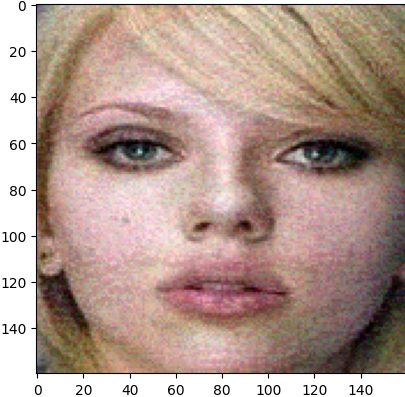
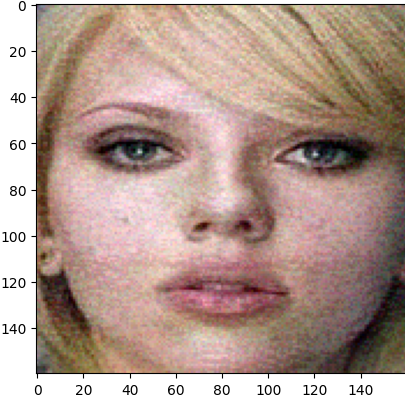
modified universal slightly to meld with other functions

diff --git a/perturbations.py b/perturbations.py
@@ -4,11 +4,10 @@ import numpy as np
 import matplotlib.pyplot as plt
 import os
 from torch.utils.data import TensorDataset
-from torch.utils.data import DataLoader
-from simplecnn import classes, test_set, load_simple_cnn, CRITERION, compute_accuracy_cnn, compute_gradient
+from simplecnn import classes
 
 import vgg
-
+import simplecnn
 
 FIGURE_PATH = './figures/'
 
@@ -29,7 +28,7 @@ def perturb_image_fgsm(model, image: torch.Tensor, celebrity: str, epsilon: floa
   if(is_embed == True): 
     gradient =  vgg.compute_gradient(model, image, celebrity)
   elif (is_embed == False):
-    gradient = compute_gradient(model, image, celebrity)
+    gradient = simplecnn.compute_gradient(model, image, celebrity)
   perturbed_image = epsilon * torch.sign(gradient) + image.clone()
   perturbed_image = perturbed_image.clamp(-1,1)
   return perturbed_image.detach() #returns a tensor of size [3, 160, 160]
@@ -41,13 +40,20 @@ def perturb_image_pgd(model, image: torch.Tensor, celebrity: str, epsilon: float
     if(is_embed == True): 
       gradient =  vgg.compute_gradient(model, image, celebrity)
     elif (is_embed == False):
-      gradient = compute_gradient(model, perturbed_image, celebrity)
+      gradient = simplecnn.compute_gradient(model, perturbed_image, celebrity)
     perturbed_image += alpha * gradient.sign()
     perturbed_image = torch.max(torch.min(perturbed_image, image + epsilon), image - epsilon)  # Project to ε-ball
     perturbed_image = torch.clamp(perturbed_image, -1.0, 1.0)  # Keep within valid image range
   return perturbed_image.detach() #returns a tensor of size [3, 160, 160]
 
-def universal_perturbation(model, dataset: TensorDataset, celebrity: str, epsilon: float, alpha: float, iters = int): 
+def perturb_image_universal(image, v, epsilon): 
+  perturbed_image = image + v
+  perturbed_image = torch.max(torch.min(perturbed_image, image + epsilon), image - epsilon)  # Project to ε-ball
+  perturbed_image = torch.clamp(perturbed_image, -1.0, 1.0)
+  return perturbed_image
+
+
+def generate_universal_perturbation(model, dataset: TensorDataset, epsilon: float, alpha: float, iters = int, is_embed = False): 
   v = torch.zeros_like(dataset[0][0])
   for _ in range(iters):
         for image, label in dataset:
@@ -62,7 +68,10 @@ def universal_perturbation(model, dataset: TensorDataset, celebrity: str, epsilo
           pred_label = torch.argmax(pred_logits, dim=1)
 
           if pred_label.item() == label: #condition to update v
-                gradient = compute_gradient(model, perturbed_image, celebrity)
+                if(is_embed == True): 
+                  gradient = vgg.compute_gradient(model, perturbed_image, celebrity)
+                elif(is_embed == False): 
+                  gradient = simplecnn.compute_gradient(model, perturbed_image, celebrity)
                 v = v + (alpha * gradient.sign())
                 v = torch.max(torch.min(v, epsilon * torch.ones_like(v)), -epsilon * torch.ones_like(v))
 
@@ -73,30 +82,24 @@ def perturb_dataset(model, dataset: TensorDataset, epsilon: float, attack: str, 
   perturbed_images = []
   labels = []
 
+  if(attack == 'universal'): 
+    v = generate_universal_perturbation(model, dataset, epsilon, alpha, iters, is_embed) #first generate the universal perturbation
+  
+
   for image, label in dataset:
     celebrity = classes[label]
     if(attack == 'fgsm'):
       perturbed_images.append(perturb_image_fgsm(model, image, celebrity, epsilon, is_embed))
     elif(attack == 'pgd'): 
       perturbed_images.append(perturb_image_pgd(model, image, celebrity, epsilon, alpha, iters, is_embed))
+    elif(attack == 'universal'): 
+       perturbed_images.append(perturb_image_universal(image, v, epsilon))
+
+
     label = torch.tensor(label)
     labels.append(label)
 
-  if attack == 'universal':
-    # Compute the universal perturbation v (shared across all images)
-    v = universal_perturbation(model, dataset, celebrity, epsilon=epsilon, alpha=alpha, iters=iters)
-    
-    # Clear previously appended lists
-    perturbed_images = []
-    labels = []
-
-    for image, label in dataset:
-      perturbed = image + v
-      perturbed = torch.max(torch.min(perturbed, image + epsilon), image - epsilon)  # Project to ε-ball
-      perturbed = torch.clamp(perturbed, -1.0, 1.0)
-      perturbed_images.append(perturbed)
-      labels.append(torch.tensor(label))
-
+  
   perturbed_images = torch.stack(perturbed_images)
   labels = torch.stack(labels)
   return TensorDataset(perturbed_images, labels)

diff --git a/test-universal-cnn.py b/test-universal-cnn.py
@@ -1,14 +1,9 @@
 import torch
 import numpy as np
 import matplotlib.pyplot as plt
-import os
 from torch.utils.data import TensorDataset
 from torch.utils.data import DataLoader
 
-
-import vgg
-import simplecnn
-import perturbations
 
 from perturbations import * 
 from vgg import *
@@ -32,22 +27,19 @@ if __name__ == "__main__":
     iters = 10
 
     print("Computing universal perturbation...")
-    v = universal_perturbation(cnn_model, test_set, celebrity, epsilon=epsilon, alpha=alpha, iters=iters)
+    v = generate_universal_perturbation(cnn_model, test_set, epsilon=epsilon, alpha=alpha, iters=iters)
 
     # Apply universal perturbation to one image
-    universal_image = image + v
-    universal_image = torch.max(torch.min(universal_image, image + epsilon), image - epsilon)
-    universal_image = torch.clamp(universal_image, -1.0, 1.0)
+    universal_image = perturb_image_universal(image, v, epsilon)
 
     save_img(universal_image, path=FIGURE_PATH + 'Universal Perturbed Image.png')
 
     # Evaluate model accuracy on perturbed dataset
     print("Creating perturbed dataset with universal perturbation...")
-    perturbed_universal_dataset = perturb_dataset(cnn_model, test_set, epsilon, attack='universal', alpha=alpha, iters=iters)
-    perturbed_universal_loader = DataLoader(perturbed_universal_dataset, batch_size=128)
+    perturbed_universal_dataset = perturb_dataset(cnn_model, test_set, epsilon, attack='universal', alpha=alpha, iters=iters, is_embed = False)
 
     print("Computing accuracy on universally perturbed dataset...")
-    acc = compute_accuracy_cnn(cnn_model, perturbed_universal_loader)
+    acc = compute_accuracy_cnn(cnn_model, perturbed_universal_dataset)
     print(f"Accuracy on universally perturbed test set: {acc:.4f}")
 
 # === Plot original image, perturbation, and perturbed image ===

diff --git a/simplecnn.py b/simplecnn.py
@@ -94,6 +94,7 @@ def compute_accuracy_cnn(model, dataset):
 
     model.eval()
     for image, label in dataset:
+        image = image.unsqueeze(dim = 0)
         outputs = model(image)
         _, predicted = torch.max(outputs, 1)
         if(label == predicted): 
